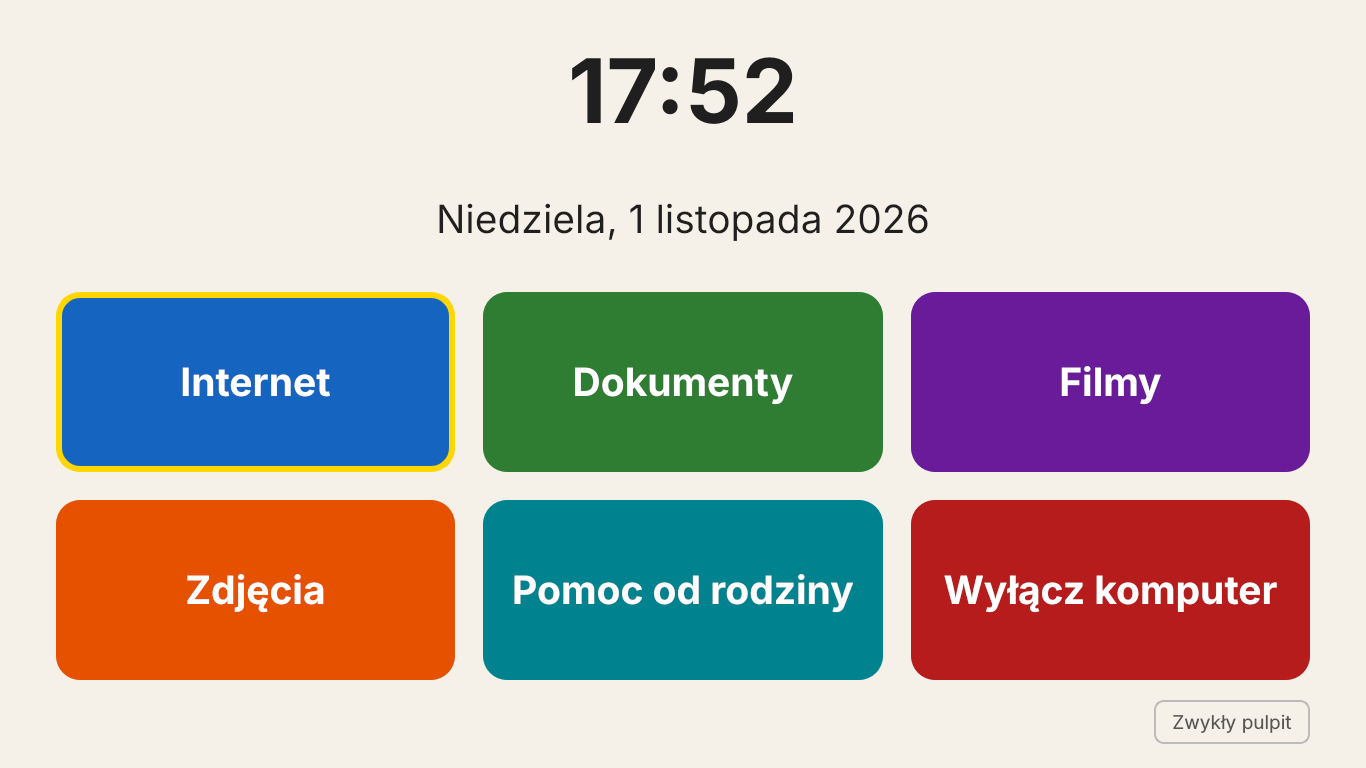
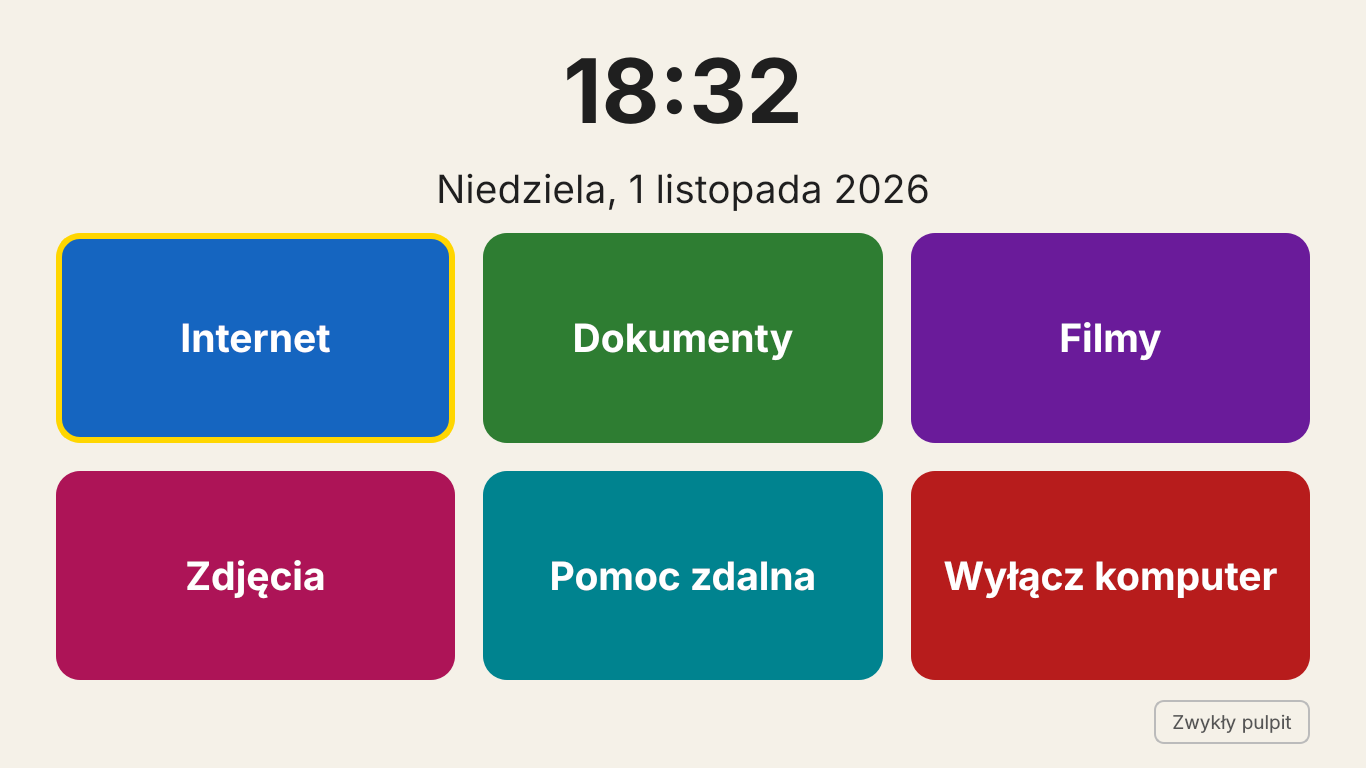
System do nauki: profile senior/dziecko, Notatnik, Paint, Scratch
Claude-Session: https://claude.ai/code/session_011jARpqMAhPjMawtRcycXPJ

diff --git a/ekran-startowy/ekran_startowy.py b/ekran-startowy/ekran_startowy.py
@@ -1,5 +1,8 @@
 #!/usr/bin/env python3
-"""Ekran startowy Senior OS: duże przyciski, zegar, nic zbędnego.
+"""Ekran startowy: duże przyciski, zegar, nic zbędnego.
+
+Dla seniorów i dla dzieci uczących się obsługi komputera (profil wybiera
+install.sh). Zestaw przycisków jest w słowniku PROFILE poniżej.
 
 Uruchamia się po zalogowaniu na pełnym ekranie. Po zamknięciu programu
 (np. przeglądarki) senior wraca do tego ekranu.
@@ -15,6 +18,7 @@ from PyQt5.QtGui import QFont, QIcon
 from PyQt5.QtNetwork import QLocalServer, QLocalSocket
 from PyQt5.QtWidgets import (
     QApplication,
+    QSizePolicy,
     QDialog,
     QGridLayout,
     QHBoxLayout,
@@ -72,17 +76,60 @@ def pomoc():
     return pierwszy_dostepny(["rustdesk"])
 
 
-# (napis, ikona z motywu systemu, kolor, akcja)
-KAFELKI = [
-    ("Internet", "web-browser", "#1565C0", internet),
-    ("Dokumenty", "folder-documents", "#2E7D32",
-     lambda: otworz_folder("DOCUMENTS", "~/Dokumenty")),
-    ("Filmy", "folder-videos", "#6A1B9A", lambda: otworz_folder("VIDEOS", "~/Wideo")),
-    ("Zdjęcia", "folder-pictures", "#E65100",
-     lambda: otworz_folder("PICTURES", "~/Obrazy")),
-    ("Pomoc od rodziny", "preferences-desktop-remote-desktop", "#00838F", pomoc),
-    ("Wyłącz komputer", "system-shutdown", "#B71C1C", None),  # osobne okno pytania
-]
+def notatnik():
+    return pierwszy_dostepny(["xed"], ["mousepad"], ["gedit"])
+
+
+def paint():
+    return pierwszy_dostepny(["pinta"], ["tuxpaint"], ["kolourpaint"])
+
+
+def scratch():
+    # TurboWarp to Scratch działający bez internetu; zapasowo Scratch w przeglądarce.
+    if shutil.which("flatpak") and subprocess.run(
+        ["flatpak", "info", "org.turbowarp.TurboWarp"],
+        stdout=subprocess.DEVNULL, stderr=subprocess.DEVNULL,
+    ).returncode == 0:
+        return ["flatpak", "run", "org.turbowarp.TurboWarp"]
+    przegladarka = internet()
+    return przegladarka + ["https://scratch.mit.edu/projects/editor/"] if przegladarka else None
+
+
+# nazwa: (napis, ikona z motywu systemu, kolor, akcja)
+WSZYSTKIE = {
+    "internet": ("Internet", "web-browser", "#1565C0", internet),
+    "dokumenty": ("Dokumenty", "folder-documents", "#2E7D32",
+                  lambda: otworz_folder("DOCUMENTS", "~/Dokumenty")),
+    "notatnik": ("Notatnik", "accessories-text-editor", "#455A64", notatnik),
+    "paint": ("Paint", "applications-graphics", "#C2185B", paint),
+    "scratch": ("Scratch", "applications-development", "#EF6C00", scratch),
+    "filmy": ("Filmy", "folder-videos", "#6A1B9A",
+              lambda: otworz_folder("VIDEOS", "~/Wideo")),
+    "zdjecia": ("Zdjęcia", "folder-pictures", "#AD1457",
+                lambda: otworz_folder("PICTURES", "~/Obrazy")),
+    "pomoc": ("Pomoc zdalna", "preferences-desktop-remote-desktop", "#00838F", pomoc),
+    "wylacz": ("Wyłącz komputer", "system-shutdown", "#B71C1C", None),  # osobne pytanie
+}
+
+# Profil wybiera się w install.sh (--profil); zapisany jest w ~/.config/senior-os/profil
+PROFILE = {
+    "senior": ["internet", "dokumenty", "filmy", "zdjecia", "pomoc", "wylacz"],
+    "dziecko": ["internet", "dokumenty", "notatnik", "paint", "scratch", "wylacz"],
+    "wszystko": ["internet", "dokumenty", "notatnik", "paint", "scratch",
+                 "filmy", "zdjecia", "pomoc", "wylacz"],
+}
+
+
+def wczytaj_profil():
+    try:
+        with open(os.path.expanduser("~/.config/senior-os/profil"), encoding="utf-8") as f:
+            nazwa = f.read().strip()
+    except OSError:
+        nazwa = ""
+    return PROFILE.get(nazwa, PROFILE["wszystko"])
+
+
+KAFELKI = [WSZYSTKIE[n] for n in wczytaj_profil()]
 
 
 class DuzePytanie(QDialog):
@@ -131,9 +178,10 @@ class Kafelek(QPushButton):
     def __init__(self, napis, ikona, kolor):
         super().__init__(napis)
         self.kolor = kolor
-        self.setFont(QFont("Sans", 28, QFont.Bold))
+        self.setFont(QFont("Sans", 28 if len(KAFELKI) <= 6 else 21, QFont.Bold))
+        self.setSizePolicy(QSizePolicy.Expanding, QSizePolicy.Expanding)
         self.setCursor(Qt.PointingHandCursor)
-        self.setMinimumSize(260, 180)
+        self.setMinimumSize(240, 120)
         ik = QIcon.fromTheme(ikona)
         if not ik.isNull():
             self.setIcon(ik)
@@ -144,7 +192,7 @@ class Kafelek(QPushButton):
         tlo = "#9E9E9E" if czeka else self.kolor
         self.setStyleSheet(
             f"QPushButton{{background:{tlo}; color:white; border:none;"
-            " border-radius:24px; padding:16px; text-align:center;}"
+            " border-radius:24px; padding:8px; text-align:center;}"
             "QPushButton:hover{border:6px solid #FFD600;}"
             "QPushButton:focus{border:6px solid #FFD600;}"
         )
@@ -163,7 +211,7 @@ class EkranStartowy(QWidget):
 
         self.zegar = QLabel()
         self.zegar.setAlignment(Qt.AlignCenter)
-        self.zegar.setFont(QFont("Sans", 64, QFont.Bold))
+        self.zegar.setFont(QFont("Sans", 64 if len(KAFELKI) <= 6 else 48, QFont.Bold))
         self.data = QLabel()
         self.data.setAlignment(Qt.AlignCenter)
         self.data.setFont(QFont("Sans", 28))

diff --git a/README.md b/README.md
@@ -1,12 +1,18 @@
 # Senior OS
 
-Prosty system dla seniorów na bazie **Linux Mint XFCE**. Po włączeniu komputera senior widzi duży zegar i sześć dużych przycisków:
+Prosty system do nauki obsługi komputera na bazie **Linux Mint XFCE** — dla seniorów i dla dzieci ze szkoły podstawowej. Po włączeniu komputera widać duży zegar i duże przyciski, a pod spodem zwykły pulpit podobny do Windowsa (pasek zadań na dole, menu Start), na którym można ćwiczyć prawdziwą obsługę systemu.
 
-**Internet · Dokumenty · Filmy · Zdjęcia · Pomoc od rodziny · Wyłącz komputer**
+Przyciski zależą od profilu:
 
-![Ekran startowy](docs/ekran-startowy.png)
+| Profil | Przyciski |
+| --- | --- |
+| `senior` | Internet · Dokumenty · Filmy · Zdjęcia · Pomoc zdalna · Wyłącz komputer |
+| `dziecko` | Internet · Dokumenty · Notatnik · Paint · Scratch · Wyłącz komputer |
+| `wszystko` (domyślny) | wszystkie 9 przycisków |
 
-Pod spodem zostaje zwykły pulpit podobny do Windowsa (pasek zadań na dole, menu Start) — dla rodziny i bardziej obytych użytkowników.
+| Senior | Dziecko |
+| --- | --- |
+| ![Profil senior](docs/ekran-startowy.png) | ![Profil dziecko](docs/ekran-dziecko.png) |
 
 ## Co zawiera
 
@@ -17,9 +23,12 @@ Pod spodem zostaje zwykły pulpit podobny do Windowsa (pasek zadań na dole, men
 | PDF | Xreader |
 | Filmy i muzyka | VLC |
 | Zdjęcia | Xviewer |
+| Notatnik | Xed (jak Notatnik w Windowsie) |
+| Paint | Pinta (jak Paint), dla najmłodszych także Tux Paint |
+| Scratch | TurboWarp — Scratch działający bez internetu, otwiera pliki .sb3; bez niego przycisk otwiera Scratch w przeglądarce |
 | Pomoc zdalna | RustDesk |
 
-Ustawienia dla seniora: duże litery i kursor, duże ikony, otwieranie jednym kliknięciem, wyższy pasek zadań, brak blokady ekranu hasłem, automatyczne aktualizacje w tle, polskie foldery.
+Ustawienia: duże litery i kursor, duże ikony, otwieranie jednym kliknięciem, wyższy pasek zadań, brak blokady ekranu hasłem, automatyczne aktualizacje w tle, polskie foldery.
 
 ## Wymagania
 
@@ -35,11 +44,14 @@ Ustawienia dla seniora: duże litery i kursor, duże ikony, otwieranie jednym kl
 ```bash
 git clone https://github.com/UZYTKOWNIK/senior-os.git
 cd senior-os
-sudo ./install.sh --uzytkownik babcia --autologowanie
+sudo ./install.sh --uzytkownik babcia --profil senior --autologowanie
+# albo dla dziecka:
+sudo ./install.sh --uzytkownik ola --profil dziecko
 ```
 
-- `--uzytkownik babcia` — tworzy osobne konto seniora **bez uprawnień administratora** (senior nie zainstaluje ani nie usunie niczego przypadkiem). Twoje konto zostaje administratorem.
-- `--autologowanie` — komputer loguje seniora sam, bez hasła.
+- `--uzytkownik NAZWA` — tworzy osobne konto **bez uprawnień administratora** (senior czy dziecko nie zainstaluje ani nie usunie niczego przypadkiem). Twoje konto zostaje administratorem.
+- `--profil senior|dziecko|wszystko` — zestaw przycisków na ekranie startowym.
+- `--autologowanie` — komputer loguje to konto sam, bez hasła.
 - Bez opcji — ustawia konto, z którego uruchamiasz skrypt.
 - `--bez-rustdesk` — pomija program do pomocy zdalnej.
 
@@ -68,7 +80,7 @@ Gotowy pendrive z Senior OS w środku:
 sudo ./build-iso/build-iso.sh linuxmint-22-xfce-64bit.iso senior-os.iso
 ```
 
-Potrzeba Linuksa i ok. 15 GB miejsca. Chrome nie jest wbudowany w obraz (nie pozwala na to licencja Google) — zainstaluje się sam przy pierwszym uruchomieniu z internetem. Konto tworzone w instalatorze jest kontem administratora; konto seniora utwórz potem przez `sudo /opt/senior-os/install.sh --uzytkownik babcia`.
+Potrzeba Linuksa i ok. 15 GB miejsca. Chrome nie jest wbudowany w obraz (nie pozwala na to licencja Google) — zainstaluje się sam przy pierwszym uruchomieniu z internetem. Konto tworzone w instalatorze jest kontem administratora; konto seniora lub dziecka utwórz potem przez `sudo /opt/senior-os/install.sh --uzytkownik NAZWA --profil senior`.
 
 ### Uruchamianie z pendrive'a
 
@@ -78,11 +90,11 @@ Przed nagraniem na pendrive przetestuj ISO w VirtualBox. Plik ISO ma ok. 3 GB, w
 
 ## Zmiana przycisków
 
-Przyciski są zdefiniowane na liście `KAFELKI` w `ekran-startowy/ekran_startowy.py`. Ekran można sprawdzić na każdym komputerze z Pythonem:
+Przyciski i profile są zdefiniowane w słownikach `WSZYSTKIE` i `PROFILE` w `ekran-startowy/ekran_startowy.py`. Ekran można sprawdzić na każdym komputerze z Pythonem:
 
 ```bash
 pip install PyQt5
-python3 ekran-startowy/ekran_startowy.py --okno
+python3 ekran-startowy/ekran_startowy.py --okno   # profil: plik ~/.config/senior-os/profil
 ```
 
 ## Struktura
